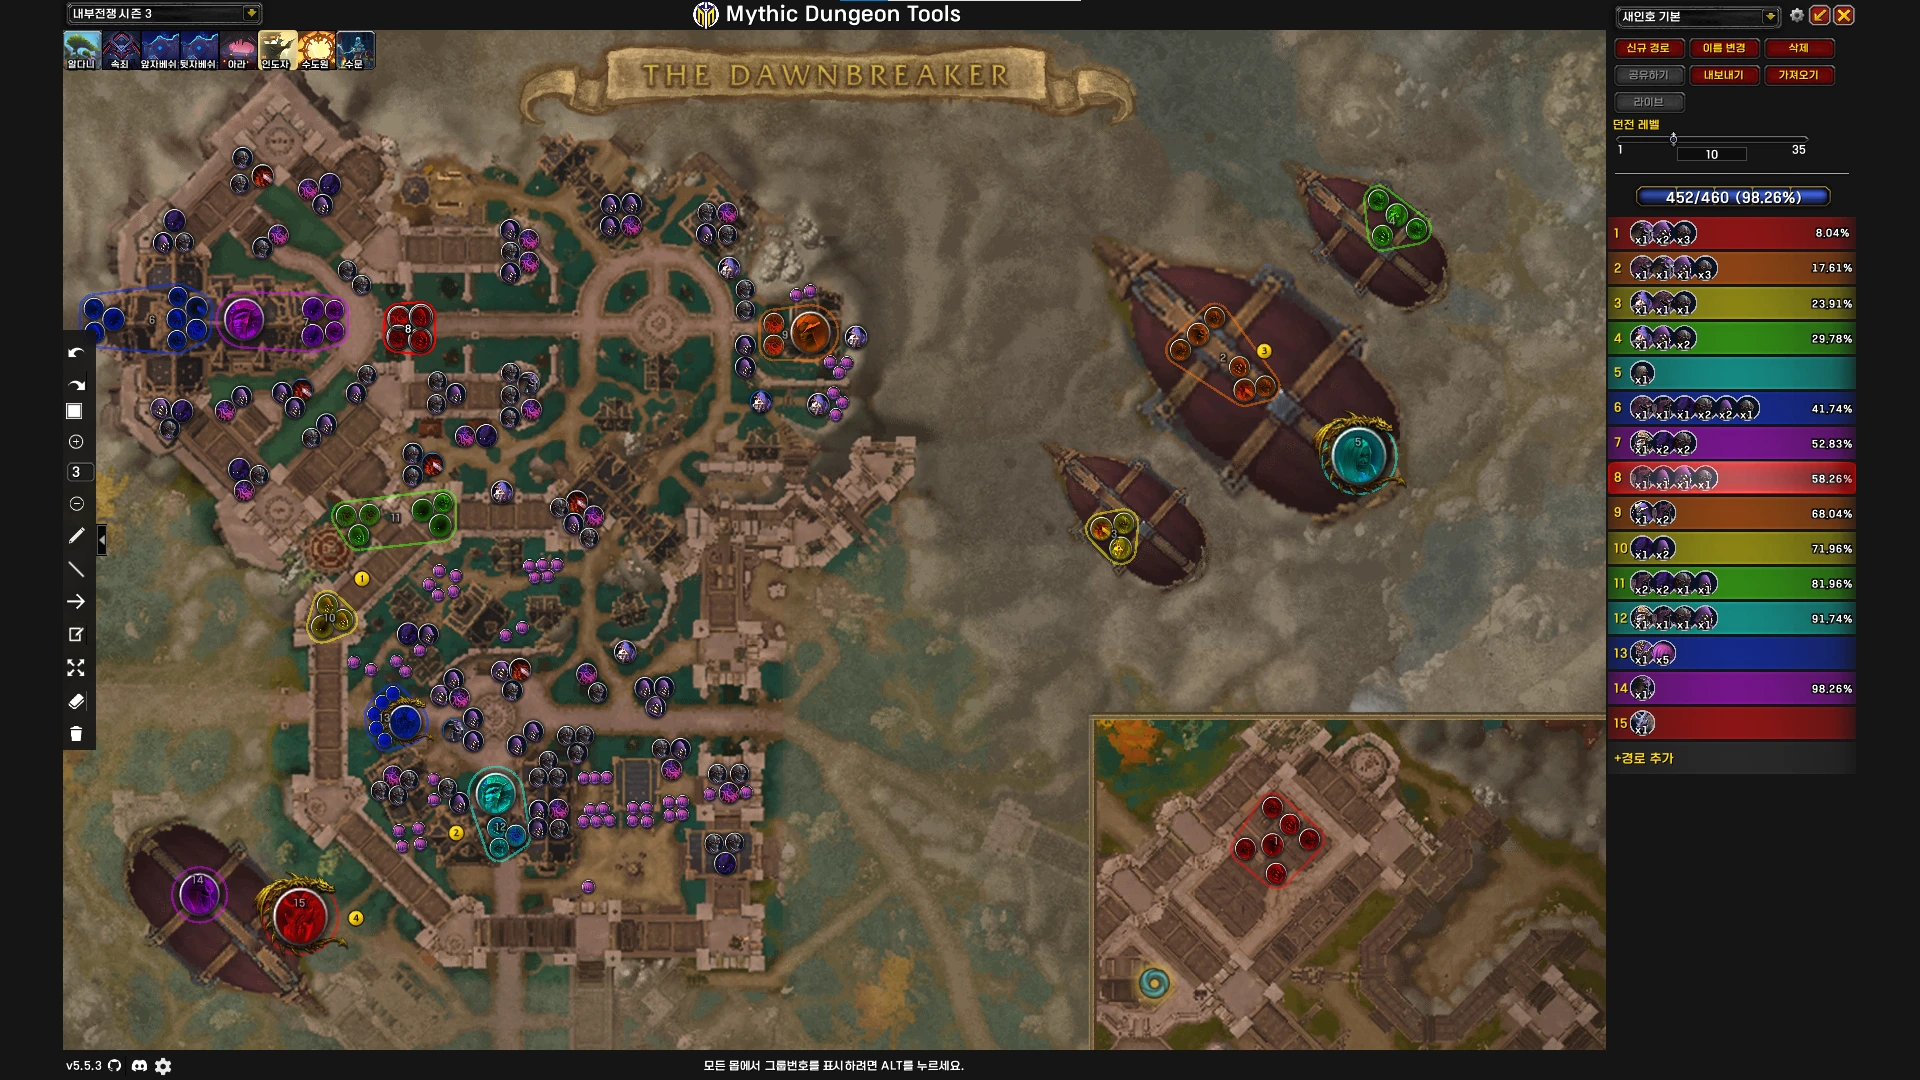
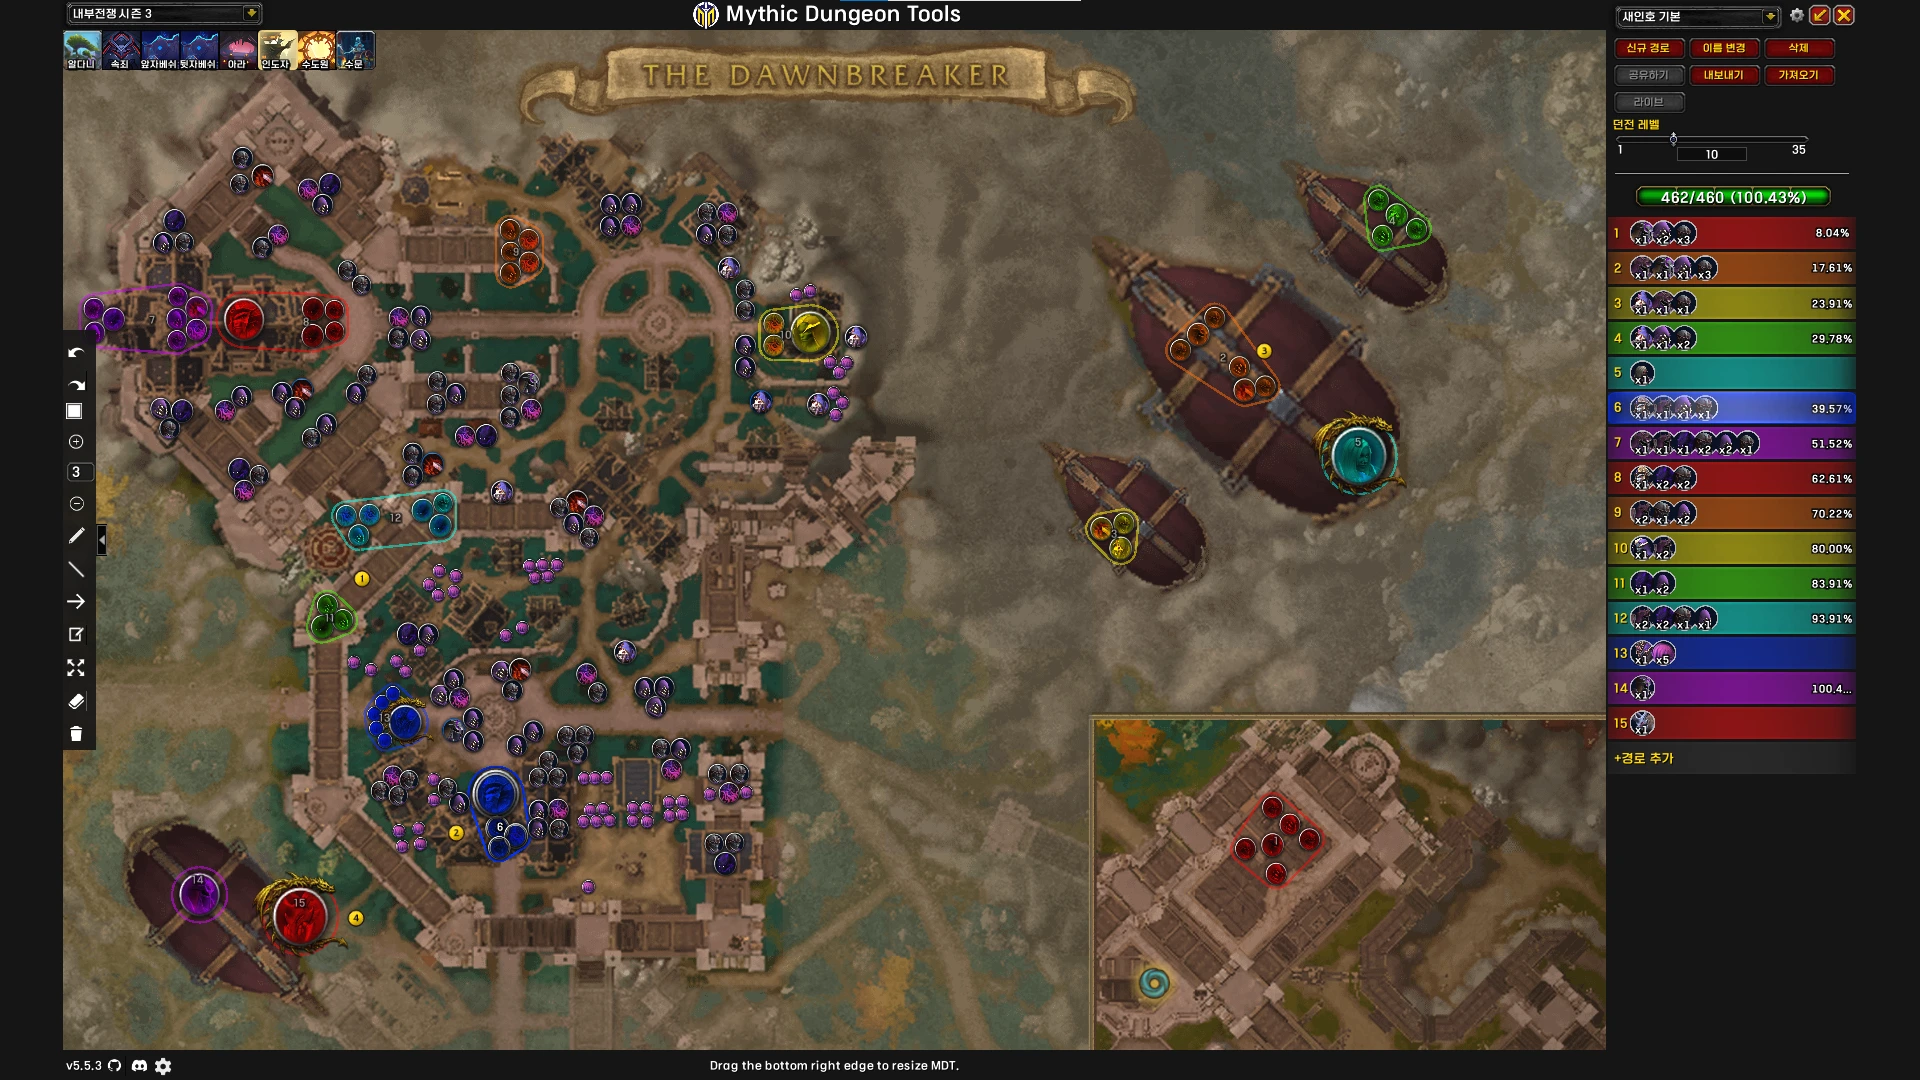
수정

diff --git a/_posts/wowinfo/2025-08-16-mdt-tww-s3.md b/_posts/wowinfo/2025-08-16-mdt-tww-s3.md
@@ -109,7 +109,7 @@ CC기로 도망가지 못하게 막아주세요.
 ![이미지 설명](/assets/img/wow/wowinfo/2025-08-16-tww-s3-mdt/6.webp)
 
 ```
-!nAvZosonq4NhoSs2UCz7CKDqTyfsHvkJwUzr)JZsdzsqDNSmCHlCHhbUW7asCzEMGL3bkN4exUhgeJIA1TD5V6R(QVuE8s)9(MtNBBpFCQB8h91sHVz68jFZx9jFE7NE801VaF03S)0PH(3fUC98qVVgrW3mC4BdhhVsNVEbKLVTdTkN1asNrRucu4BFLg91k)UxHkeqT0aiirhQIBP91q8C1A)RjK9nh)M9N79J(MEAHX4bzGBjaaWHAKG3aog4wJZkDGabHZ5uM)vW7MUoYWgkjoQSwDLgSe5m2iaWc2gP2HGtiqNgRCvP0(FITUaBcbPYbwH0iucdJ3ouOmskFOUcaH9)bVPV8H9DtHygooD5sOF8TtDD(A32VBMo0f(qOlIsZLZTJFzB71qUDndsk2pBQ)9HH(3C6rApjf)yi8W5(37p4BUg6OUCSRpFqkd05(EkzBiT(r8rn)aXNuNlVQCvWxInPqJXY7(zYm0nCX302kO)yh)(KqeXyrZnCWboSQvyxZrgvJzbvGJAvriTifY2XvRCB9hzOxLIiLSCYOz4bNILsgc5ce4CtBjeHOTnCG2sxgJPqw3edwTHSWQLWIahZoXNKUK6fZkTlT4mzRwRjfJTcHk02sRBxsKCjHzaV)gwKYplJYLEea8mY69vEEF(Kmw9PeXQDxrTx0Ql7wZ2KnnOOYWvAnUTkJR56GK2x0QmBu4QvUqKBqVaWATc8MYQH9zgS4XKpxtHSMU1C2KwvrxSAHkco9Ky2dCJdCCtKLSYDdBKvs3AmnLAqXB1UKeam5vYn71YstaKhQfFWs1z1a620w9ZfPYUOlZUnICtZCZLTsWCRJ)I4QBsA8CZ48qYXWJ0NF8N)Lp(Bp93)6t)0x)Np97)1F8u6SVDFxyCm8M(2HiE7NghUlUEC85RP51tpCiC5oA69WdZRFnY(YJgh7AIdJJbLw8DXX78rSjzC2xwZhpUSXolDvRL8TANaSU5BOqDoyOiyNbHQ4D0kTTYs32qbd5GtcpfMCosJgngufVSft2SCWRDCrEJD0TWc6YuhaGMUlnHpZDph8oJUQI4aIQk6kq0MWh8fg0DwWPaR0s)xfcImUeB3uJI3nKm(j5E3NTb7L)B3r(I7OEHDMDk)qi8Dl)0)pp
+!9vvZUnUnq4NNEybi5WHK6yYwe0ffWDbKX2BeRTfvQBLLkSKstUSx2l7JqV03Hc0l5zQD77q5FsAKDsteSnfh(nFZ38nswUDRTS6yD9XdJndpz3Wz2YXJv2YF8B(U6Bou1)94J2YDvvDTFWDU)yxRDdIGT83CUFXhUT8HDnJUam)6yttV)hB4KpcxI4feUgc)Cl5U8WTG5y9lK(f(VW4xLh6A6oBlRRz()ihpDazedmcUIcoqHvmb7uowqvPsOcuulwfsn6dz(4IjUnTyb609mrkPPKrsWdQcLYce8eeHLtHWy11U9(TKRJrfxYPAfxNelXCYhiWiC11PJnekkIYOZlWeY6vnSzzMOA4cb8xqQ1jPqb5UCKxM8n1e(uXdfM)2I1esiivYYz3EblgMRKPmYtDFaOzCXvDH1jMVHC6jQAX1PBUoXeyQvzvnLUR8rZLuYduSUU86625AG24M37k3zY6bxOxlZnlyhBEtAaqlIPrKRSGeTGsfyTgK6otfVyv3TiXegLDtAg1ZNn0HecunGodSHVUdgFArM)Y4ioAV2BBMfa5l3gNfPCOzgCHspBnZXYjZmdZu9sdfxzPoPaCJNp7AhEV)bHH0pTUCCFJ7bxtiYsxR70t303F8(2t(96TBjN8BhBV311(UQhd9uF0do3PJT3B3Bl7DnUddHhaNYAWhwE(y9Wpux37g6xeGixgCp6)8RF(lF9pE(F)9N)0h)7N)Z)5VEoxfVFxJByW9U26U5kB6EHK7jF74P9UZVDSFO70Bd73h0YYDJdDXLbADBG5HaYN9dH3fqFhqUHgDXBOp)oTXDAbd1(zhPHbAJPWw)guUemSkyJcHcTc4cPUqlLHGHLGZwaFy8yKkjQuOWecl7kxcEY7Xw24odWyA)baaKA0KXNmmed(oLSOWZbeffmHc1z8b7YqzGgAWianxB81NNmMmBNvJvJsCc)4w680LBqEuXL7WF1DeVYorNs3(F2BSM7ALTH2AvUkqTWeKCJsk89kMVkKrX8U3GceqjxbiWrdkcBjxgBVniYLh(PDhBtdrIRax7baadkrp8kWqaxRmAUVHGaZymc1lcEJ37LWgEbIJcTwwibFRevHUKesyR4sdcggZ3JXIOPtIVo2YRX2Ja37t0mUIjykcVnO3tW95dLfaW0))8o8V9)o
 ```
 
 ![이미지 설명](https://wow.zamimg.com/images/wow/icons/large/spell_nature_bloodlust.jpg){: width="30" height="30"} 
